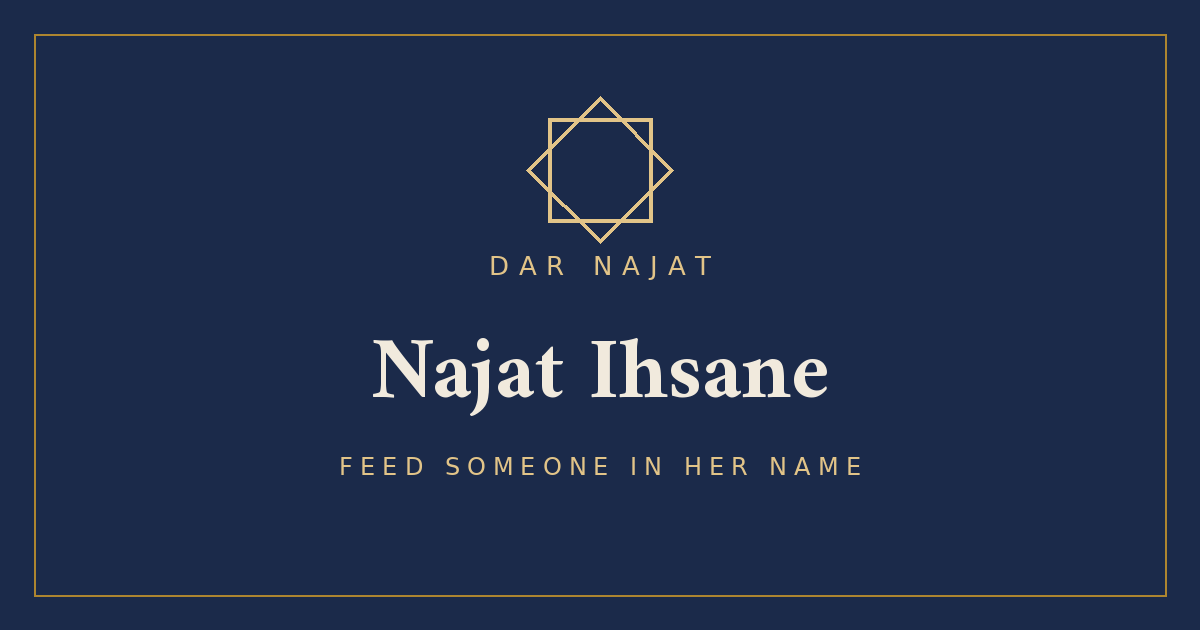
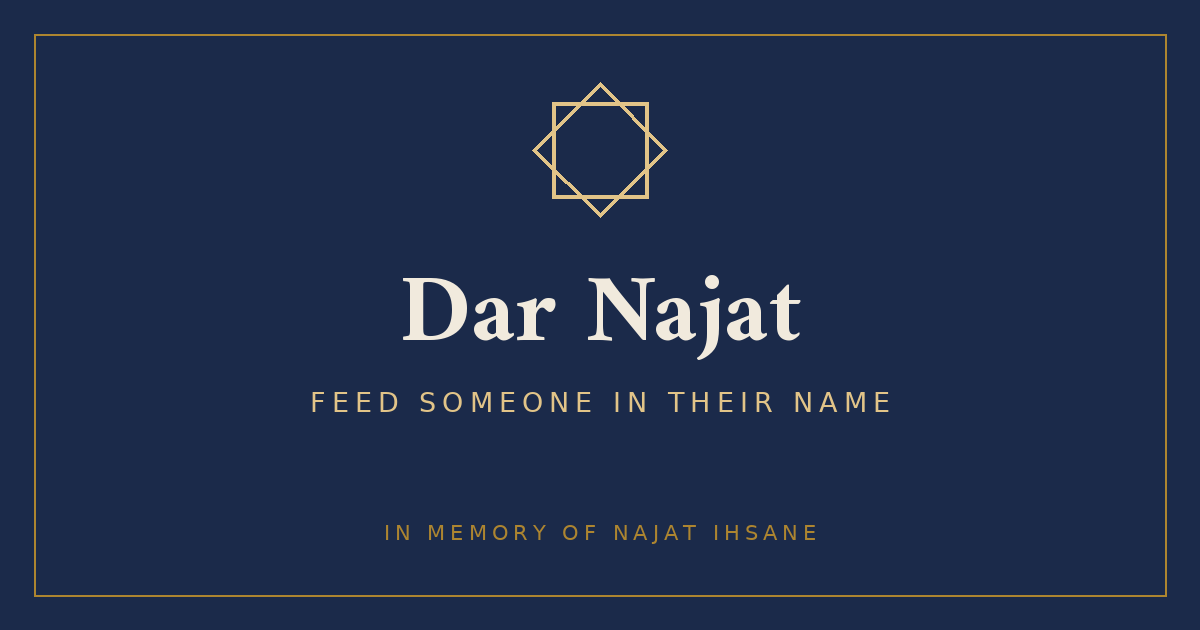
Open to all: neutral language + new share card

diff --git a/index.html b/index.html
@@ -4,20 +4,20 @@
 <meta charset="UTF-8">
 <meta name="viewport" content="width=device-width, initial-scale=1.0">
 <title>Dar Najat — In memory of Najat Ihsane</title>
-<meta name="description" content="Dar Najat is a house built in memory of Najat Ihsane. Feed someone who is hungry, in her name.">
+<meta name="description" content="Dar Najat is a house built for good, founded in memory of Najat Ihsane. Feed someone who is hungry, in a loved one’s name.">
 <meta name="theme-color" content="#1B2A4A">
 <link rel="icon" href="favicon.svg" type="image/svg+xml">
 <link rel="icon" href="favicon-32.png" sizes="32x32" type="image/png">
 <link rel="apple-touch-icon" href="apple-touch-icon.png">
 <meta property="og:type" content="website">
 <meta property="og:url" content="https://charity.safjob.com/">
-<meta property="og:title" content="Dar Najat — Feed someone in her name">
+<meta property="og:title" content="Dar Najat — Feed someone in a loved one’s name">
 <meta property="og:description" content="A house built in memory of Najat Ihsane. Run a feeding for someone without a home, in a loved one’s name.">
 <meta property="og:image" content="https://charity.safjob.com/og.png">
 <meta property="og:image:width" content="1200">
 <meta property="og:image:height" content="630">
 <meta name="twitter:card" content="summary_large_image">
-<meta name="twitter:title" content="Dar Najat — Feed someone in her name">
+<meta name="twitter:title" content="Dar Najat — Feed someone in a loved one’s name">
 <meta name="twitter:description" content="A house built in memory of Najat Ihsane. Run a feeding for someone without a home, in a loved one’s name.">
 <meta name="twitter:image" content="https://charity.safjob.com/og.png">
 <link rel="preconnect" href="https://fonts.googleapis.com">
@@ -267,8 +267,8 @@
     <section>
       <div class="wrap">
         <p class="label reveal">Why this exists</p>
-        <h2 class="reveal">A meal given in her memory.</h2>
-        <p class="lede reveal">Najat raised a family on the belief that no one at your door leaves hungry. Dar Najat carries that forward. You run a feeding for people without a home, you do it in her name, and you log it so the next person knows that corner was cared for.</p>
+        <h2 class="reveal">A meal given in their memory.</h2>
+        <p class="lede reveal">Dar Najat began with one mother, Najat, and is built for anyone. You run a feeding for people without a home, you do it in a loved one’s name, and you log it so the next person knows that corner was cared for.</p>
         <p class="reveal">It is built to be carried by many hands, not one. The records belong to everyone who shows up, so the work lives on long after any single person steps back.</p>
       </div>
     </section>
@@ -301,7 +301,7 @@
 
     <section class="cta-band">
       <div class="wrap">
-        <h2 class="reveal">Feed someone in her name.</h2>
+        <h2 class="reveal">Feed someone in their name.</h2>
         <p class="reveal">A short playbook walks you through it: where to go, what to bring, how to serve with dignity. Then you log the feeding so others know the spot is covered.</p>
         <a class="btn reveal" href="playbook.html">Run a feeding</a>
       </div>

diff --git a/playbook.html b/playbook.html
@@ -11,13 +11,13 @@
 <link rel="apple-touch-icon" href="apple-touch-icon.png">
 <meta property="og:type" content="website">
 <meta property="og:url" content="https://charity.safjob.com/">
-<meta property="og:title" content="Dar Najat — Feed someone in her name">
+<meta property="og:title" content="Dar Najat — Feed someone in a loved one’s name">
 <meta property="og:description" content="A house built in memory of Najat Ihsane. Run a feeding for someone without a home, in a loved one’s name.">
 <meta property="og:image" content="https://charity.safjob.com/og.png">
 <meta property="og:image:width" content="1200">
 <meta property="og:image:height" content="630">
 <meta name="twitter:card" content="summary_large_image">
-<meta name="twitter:title" content="Dar Najat — Feed someone in her name">
+<meta name="twitter:title" content="Dar Najat — Feed someone in a loved one’s name">
 <meta name="twitter:description" content="A house built in memory of Najat Ihsane. Run a feeding for someone without a home, in a loved one’s name.">
 <meta name="twitter:image" content="https://charity.safjob.com/og.png">
 <link rel="preconnect" href="https://fonts.googleapis.com">
@@ -186,7 +186,7 @@
 
   <div class="topbar">
     <div class="wrap">
-      <a class="back" href="index.html">← In her memory</a>
+      <a class="back" href="index.html">← Dar Najat</a>
       <span class="ar">دار نجاة</span>
     </div>
   </div>
@@ -198,7 +198,7 @@
         <rect x="22" y="22" width="56" height="56" transform="rotate(45 50 50)"/>
       </svg>
       <p class="eyebrow">The Playbook</p>
-      <h1>Run a feeding in her name</h1>
+      <h1>Run a feeding in their name</h1>
       <p>Five steps. You can do the whole thing in an afternoon, alone or with a few people. Keep it simple. Showing up matters more than scale.</p>
     </div>
   </header>

diff --git a/log.html b/log.html
@@ -11,13 +11,13 @@
 <link rel="apple-touch-icon" href="apple-touch-icon.png">
 <meta property="og:type" content="website">
 <meta property="og:url" content="https://charity.safjob.com/">
-<meta property="og:title" content="Dar Najat — Feed someone in her name">
+<meta property="og:title" content="Dar Najat — Feed someone in a loved one’s name">
 <meta property="og:description" content="A house built in memory of Najat Ihsane. Run a feeding for someone without a home, in a loved one’s name.">
 <meta property="og:image" content="https://charity.safjob.com/og.png">
 <meta property="og:image:width" content="1200">
 <meta property="og:image:height" content="630">
 <meta name="twitter:card" content="summary_large_image">
-<meta name="twitter:title" content="Dar Najat — Feed someone in her name">
+<meta name="twitter:title" content="Dar Najat — Feed someone in a loved one’s name">
 <meta name="twitter:description" content="A house built in memory of Najat Ihsane. Run a feeding for someone without a home, in a loved one’s name.">
 <meta name="twitter:image" content="https://charity.safjob.com/og.png">
 <link rel="preconnect" href="https://fonts.googleapis.com">
